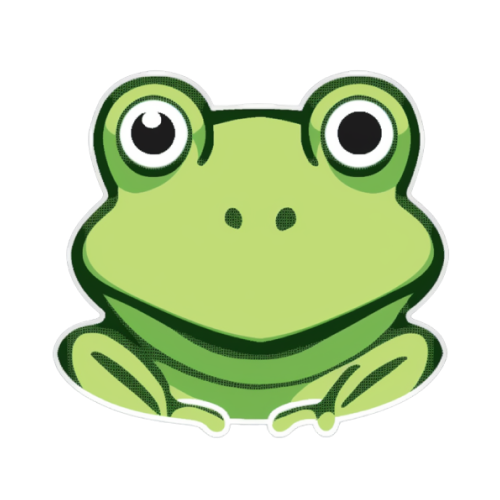
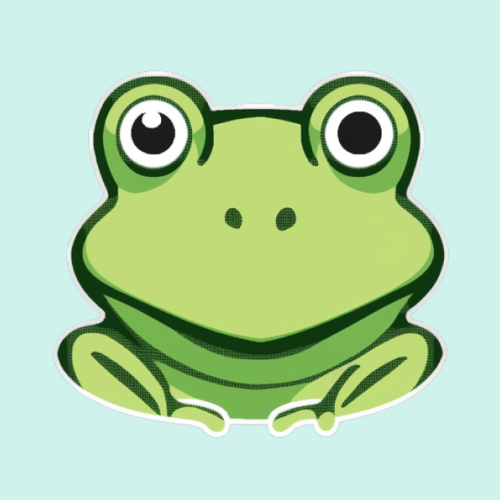
初步替换为动物音符图案

diff --git a/index.html b/index.html
@@ -75,9 +75,10 @@
             <div class="border rounded-circle  d-lg-flex justify-content-lg-start align-items-lg-center"
               style="pointer-events: auto; background: transparent; width: 26px; height: 26px; border-radius: 50%; position: relative; margin: 0px 0px 15px 1px; opacity: 0;">
               6</div>
-            <div id="2_1" ref="beat2_1" v-bind:class="{hide:this.notes.beat2[1]==0}"
+            <div id="2_1" ref="beat2_1" 
+            v-bind:class="{hide:this.notes.beat2[1]==0,panda:this.patterns.beat2[1] =='panda',frog:this.patterns.beat2[1] =='frog',frog_active:this.patterns.beat2[1] =='frog-active',pig:this.patterns.beat2[1] =='pig'}"
               class="border rounded-circle  d-lg-flex justify-content-lg-start align-items-lg-center "
-              style="pointer-events: auto; background: transparent;border: 3px solid transparent; width: 26px; height: 26px; border-radius: 50%; position: relative; margin: 0px 0px 15px 1px; transform: translateX(-5px) translateY(1px);">
+              style="pointer-events: auto; width: 26px; height: 26px; border-radius: 50%; position: relative; margin: 0px 0px 15px 1px; transform: translateX(-5px) translateY(1px);">
               2</div>
             <div id="2_2" ref="beat2_2" v-bind:class="{hide:this.notes.beat2[2]==0}"
               class="border rounded-circle  d-lg-flex justify-content-lg-start align-items-lg-center "
@@ -87,9 +88,10 @@
               class="border rounded-circle  d-lg-flex justify-content-lg-start align-items-lg-center "
               style="transform: translate(-3px, -2px);pointer-events: auto;border: 3px solid transparent; background: transparent; width: 40px; height: 40px; border-radius: 50%; position: relative; margin: 0px 0px 15px 1px;">
               2</div>
-            <div id="2_4" ref="beat2_4" v-bind:class="{hide:this.notes.beat2[4]==0}"
+            <div id="2_4" ref="beat2_4"
+            v-bind:class="{hide:this.notes.beat2[4]==0,panda:this.patterns.beat2[4] =='panda',frog:this.patterns.beat2[4] =='frog',frog_active:this.patterns.beat2[4] =='frog-active',pig:this.patterns.beat2[4] =='pig'}"
               class="border rounded-circle  d-lg-flex justify-content-lg-start align-items-lg-center "
-              style="pointer-events: auto; background: transparent;border: 3px solid transparent; width: 50px; height: 50px; border-radius: 50%; position: relative; margin: 0px 0px 15px 1px;">
+              style="pointer-events: auto;  width: 50px; height: 50px; border-radius: 50%; position: relative; margin: 0px 0px 15px 1px;">
               2</div>
           </div>
           <div class="d-lg-flex justify-content-center align-items-center align-items-lg-center"
@@ -260,24 +262,22 @@
             style="pointer-events: none; position: absolute; gap: 15.5px; transform: translate(6px) translateX(-10px) translateY(-10px) rotate(105deg); width: 100%; height: 100%; padding-left: 0px; margin-left: -7px;">
             <div id="1_4" ref="beat1_4" class="beat1_4"
               class="border rounded-circle d-lg-flex justify-content-lg-start align-items-lg-center"
-              v-bind:class="{hide:this.notes.beat1[4]==0}"
-              v-bind:style="{ currentPattern }"
-              >
+              v-bind:class="{hide:this.notes.beat1[4]==0,panda:this.patterns.beat1[4] =='panda',frog:this.patterns.beat1[4] =='frog',frog_active:this.patterns.beat1[4] =='frog-active',pig:this.patterns.beat1[4] =='pig'}">
               1</div>
             <div id="1_3" ref="beat1_3"
               class="border rounded-circle d-lg-flex justify-content-lg-start align-items-lg-center"
-              v-bind:class="{hide:this.notes.beat1[3]==0}"
-              style="pointer-events: auto; background: transparent; border: 3px solid transparent; width: 40px; height: 40px; border-radius: 50%; position: relative; margin: 0px 0px 15px 1px;">
+              v-bind:class="{hide:this.notes.beat1[3]==0,panda:this.patterns.beat1[3] =='panda',frog:this.patterns.beat1[3] =='frog',frog_active:this.patterns.beat1[3] =='frog-active',pig:this.patterns.beat1[3] =='pig'}"
+              style="pointer-events: auto; width: 40px; height: 40px; border-radius: 50%; position: relative; margin: 0px 0px 15px 1px; transform: rotate(-88deg);">
               1</div>
             <div id="1_2" ref="beat1_2"
               class="border rounded-circle d-lg-flex justify-content-lg-start align-items-lg-center"
-              v-bind:class="{hide:this.notes.beat1[2]==0}"
-              style="transform: translate(3px, 0px);pointer-events: auto; background: transparent; border: 3px solid transparent; width: 34px; height: 34px; border-radius: 50%; position: relative; margin: 0px 0px 15px 1px;">
+              v-bind:class="{hide:this.notes.beat1[2]==0,panda:this.patterns.beat1[2] =='panda',frog:this.patterns.beat1[2] =='frog',frog_active:this.patterns.beat1[2] =='frog-active',pig:this.patterns.beat1[2] =='pig'}"
+              style="transform: translate(3px, 0px);pointer-events: auto; width: 34px; height: 34px; border-radius: 50%; position: relative; margin: 0px 0px 15px 1px; transform: rotate(-88deg);">
               1</div>
             <div id="1_1" ref="beat1_1"
               class="border rounded-circle d-lg-flex justify-content-lg-start align-items-lg-center"
-              v-bind:class="{hide:this.notes.beat1[1]==0}"
-              style="pointer-events: auto; background: transparent; border: 3px solid transparent; width: 26px; height: 26px; border-radius: 50%; position: relative; margin: 0px 0px 15px 1px; transform: translate(3px, 1px);">
+              v-bind:class="{hide:this.notes.beat1[1]==0,panda:this.patterns.beat1[1] =='panda',frog:this.patterns.beat1[1] =='frog',frog_active:this.patterns.beat1[1] =='frog-active',pig:this.patterns.beat1[1] =='pig'}"
+              style="pointer-events: auto; width: 26px; height: 26px; border-radius: 50%; position: relative; margin: 0px 0px 15px 1px; transform: translate(3px, 1px)rotate(-88deg);">
               1</div>
             <div class="border rounded-circle  d-lg-flex justify-content-lg-start align-items-lg-center"
               style="pointer-events: auto; background: transparent; width: 26px; height: 26px; border-radius: 50%; position: relative; margin: 0px 0px 15px 1px; overflow: visible; opacity: 0;">

diff --git a/assets/js/main.js b/assets/js/main.js
@@ -3,8 +3,83 @@ var VM = new Vue({
   data: {
     siteUrl:
       'https://static-mp-f069a595-b856-4970-895a-a3c3cd52557c.next.bspapp.com/',
-    // currentPatternUrl:'../img/Frame 6.png',
-    // currentPattern: {backgroundImage: 'url(' + this.currentPatternUrl + ')'},
+      //frog\frog-active\pig\panda
+    patterns: {
+      beat1: {
+        1: 'frog',
+        2: 'frog-active',
+        3: 'pig',
+        4: 'panda',
+      },
+      beat2: {
+        1: 'panda',
+        2: 'pig',
+        3: 'frog',
+        4: 'frog',
+      },
+      beat3: {
+        1: '',
+        2: '',
+        3: '',
+        4: '',
+      },
+      beat4: {
+        1: '',
+        2: '',
+        3: '',
+        4: '',
+      },
+      beat5: {
+        1: '',
+        2: '',
+        3: '',
+        4: '',
+      },
+      beat6: {
+        1: '',
+        2: '',
+        3: '',
+        4: '',
+      },
+      beat7: {
+        1: '',
+        2: '',
+        3: '',
+        4: '',
+      },
+      beat8: {
+        1: '',
+        2: '',
+        3: '',
+        4: '',
+      },
+      beat9: {
+        1: '',
+        2: '',
+        3: '',
+        4: '',
+      },
+      beat10: {
+        1: '',
+        2: '',
+        3: '',
+        4: '',
+      },
+      beat11: {
+        1: '',
+        2: '',
+        3: '',
+        4: '',
+      },
+      beat12: {
+        1: '',
+        2: '',
+        3: '',
+        4: '',
+      },
+    },
+    currentPatternUrl:'/assets/img/Frame 5.png',
+    currentPattern: 'Frame 5.png',
     inAnimation: false,
     playBtnColor: '#ffd38a',
     connectText: '连接设备',
@@ -427,6 +502,23 @@ var VM = new Vue({
       let noteLength = this.noteLength //音符长度 4n 8n 16n
 
       this.running = true //标记播放状态
+      //设定定时器，重复操作
+      let nIntervId
+      let intervCount = 1
+      eval('this.patterns.beat' + intervCount)[0] += '-active'
+      eval('this.patterns.beat' + intervCount)[1] += '-active'
+      eval('this.patterns.beat' + intervCount)[2] += '-active'
+      eval('this.patterns.beat' + intervCount)[3] += '-active'
+      intervCount += 1
+      
+      nIntervId=setInterval(() => {
+        eval('this.patterns.beat' + intervCount)[0] += '-active'
+        eval('this.patterns.beat' + intervCount)[1] += '-active'
+        eval('this.patterns.beat' + intervCount)[2] += '-active'
+        eval('this.patterns.beat' + intervCount)[3] += '-active'
+        intervCount +=1
+      }, 500)
+      
       this.playBtnColor = '#ffbba6'
       this.inAnimation = true
 
@@ -455,9 +547,14 @@ var VM = new Vue({
       // this.sampler.triggerAttackRelease('G4', noteLength, now + 3 * speedFactor)
 
       setTimeout(() => {
+      //清除定时器
+        clearInterval(nIntervId)
+        nIntervId = null;
+
         this.running = false
         this.playBtnColor = '#ffd38a'
         this.inAnimation = false
+
       }, speedFactor * count * 1000)
     },
 
@@ -832,49 +929,49 @@ var VM = new Vue({
       // let name = eval(refCmdWithID) //传递id参数,触发onclick事件
       // let hygroClick = this.hygroClick
 
-      使用指定的配置项和数据显示图表
-      hygrometer.setOption({
-        tooltip: {
-          show: false,
-        },
-        series: [
-          {
-            name,
-            type: 'liquidFill',
-            radius,
-            data: [eval(extent)],
-            label: {
-              show: false,
-            },
-            backgroundStyle: {
-              color: 'transparent',
-            },
-            color: [
-              {
-                type: 'solid',
-                x: 0,
-                y: 1,
-                x2: 0,
-                y2: 0,
-                colorStops: [
-                  {
-                    offset: 1,
-                    color: [color], // 0% 处的颜色
-                  },
-                ],
-              },
-            ],
-            outline: {
-              show: true,
-              borderDistance: 0,
-              itemStyle: {
-                borderColor: color,
-                borderWidth: 2,
-              },
-            },
-          },
-        ],
-      })
+      // 使用指定的配置项和数据显示图表
+      // hygrometer.setOption({
+      //   tooltip: {
+      //     show: false,
+      //   },
+      //   series: [
+      //     {
+      //       name,
+      //       type: 'liquidFill',
+      //       radius,
+      //       data: [eval(extent)],
+      //       label: {
+      //         show: false,
+      //       },
+      //       backgroundStyle: {
+      //         color: 'transparent',
+      //       },
+      //       color: [
+      //         {
+      //           type: 'solid',
+      //           x: 0,
+      //           y: 1,
+      //           x2: 0,
+      //           y2: 0,
+      //           colorStops: [
+      //             {
+      //               offset: 1,
+      //               color: [color], // 0% 处的颜色
+      //             },
+      //           ],
+      //         },
+      //       ],
+      //       outline: {
+      //         show: true,
+      //         borderDistance: 0,
+      //         itemStyle: {
+      //           borderColor: color,
+      //           borderWidth: 2,
+      //         },
+      //       },
+      //     },
+      //   ],
+      // })
 
       // hygrometer.on('click', function (e) {
       //   // console.log(e.seriesName)

diff --git a/assets/bootstrap/css/main.css b/assets/bootstrap/css/main.css
@@ -1,7 +1,18 @@
+.frog{
+    background: url('/assets/img/frog.png') center / cover, transparent;
+}
+.frog_active{
+    background: url('/assets/img/frog_active.png') center / cover, transparent;
+}
+.pig{
+    background: url('/assets/img/pig.png') center / cover, transparent;
+}
+.panda{
+    background: url('/assets/img/panda.png') center / cover, transparent;
+}
 
 .beat1_4{
     pointer-events: auto;
-    background: url('/assets/img/Frame 5.png') center / cover, transparent;
     border: 3px solid transparent;
     width: 50px;
     height: 50px;
